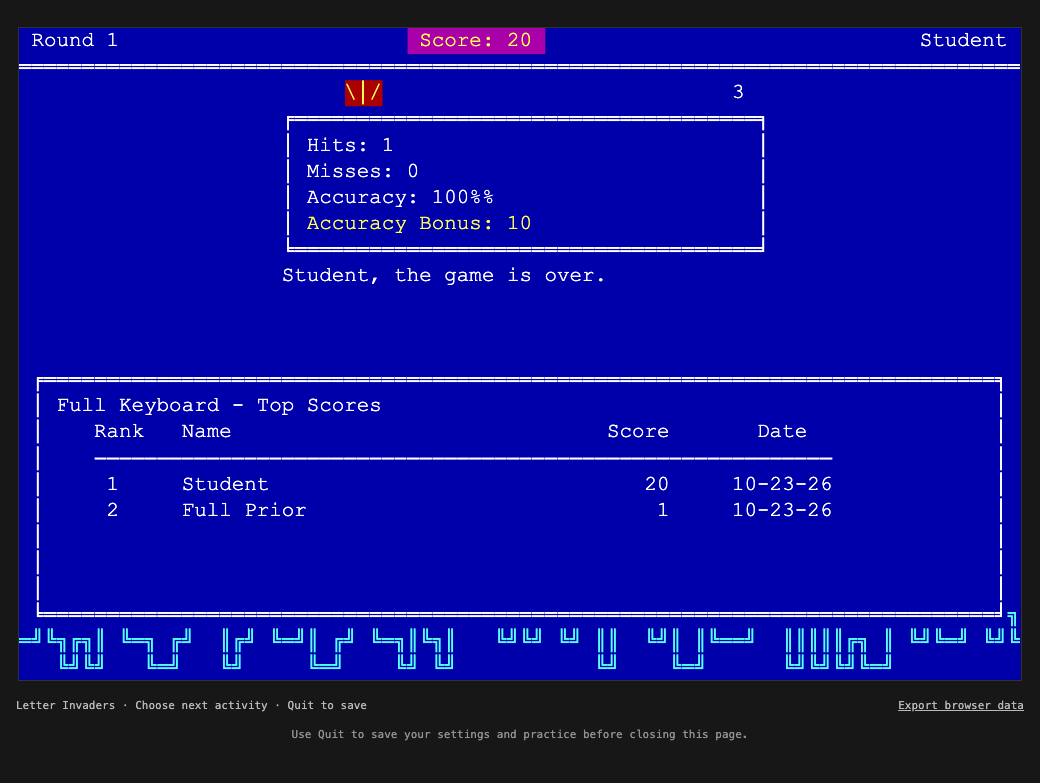
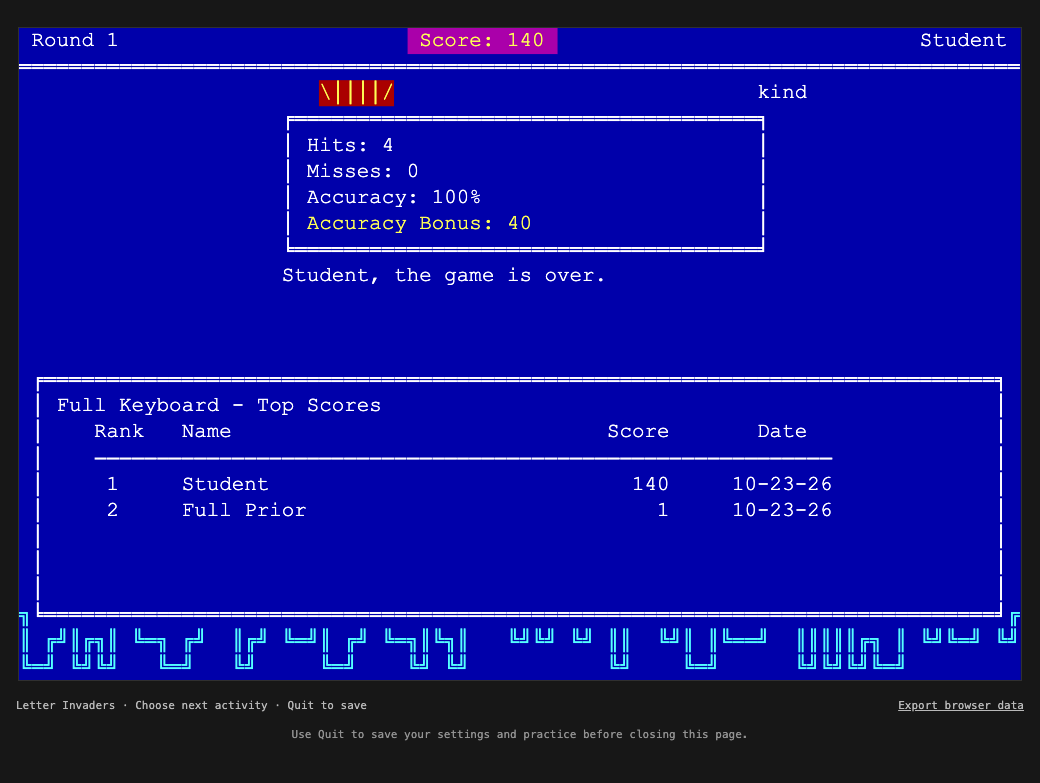
Restore Word Ship melody and fix escaped percent in game summaries

diff --git a/dist/invaders-data.js b/dist/invaders-data.js
@@ -1,2 +1,2 @@
 // Generated by scripts/extract-invaders-data.py; retained static REA evidence.
-export default {"levelTitle":"Level","scoresTitle":"Score board","title":"Letter Invaders (R)","gameMenu":"Game Menu","roundTitle":"Round","roundFooter":"","roundNumber":"%d","score":" Score: %ld ","modePrompt":"Choose a level of play","choiceInstruction":"..press Enter to select highlighted item.","endPrompt":"Choose next activity","nameDots":"..","nameEnter":"..then press Enter.","playersTitle":"Players","playersPrompt":"Choose the number of players","secondNamePrompt":"Player #2: Please type your name","ready":"..Press Enter to begin Round %d.","player":"Player %d, %s","playerScore":", your score: %ld","summaryPlayer":"Player %d, %s","hits":"Hits: %d","misses":"Misses: %d","accuracy":"Accuracy: %d%%","bonus":"Accuracy Bonus: %d","gameOverPlayer":"Player %d, ","gameOver":"%s, the game is over.","playerOneFinal":"Player 1, %s: %ld","playerTwoFinal":"Player 2, %s: %ld","scoreTitle":"%s - Top Scores","scoreHeading":"Rank   Name                              Score       Date","keysHeading":"      Keys","scoreRow":"%d     %-26s%13ld%13s","keysRow":"%7d","ignoredKeys":"\\|`","replacementExcluded":"',-_","modeChoices":["Practice Keys","Full Keyboard"],"playerChoices":["One","Two"],"endChoices":["Play another game","Practice Lesson","Return to Main Menu"],"introParagraphs":["Nihilistic letters are attacking the English Language!  They aim to destroy literacy with random words.  Can you stop the crazed letters and save your language?","Your strategy is to place your fingers on the home keys ('ASDF' and 'JKL;') and type the descending words before they can cause cultural confusion."],"roundParagraphs":["You score points for each word correctly typed.  The first letter of a word is worth 10 points, the second letter adds 20 more, the third letter 30 more, etc.  Each miss deducts 10 points.","Watch out in round 2!  The invaders have a new tactic for syntactical disarray - Boomlets.  These babies come down fast, and they are worth 50 points when you stop them.","Your incredible defense of good grammar has forced the invaders to call in Word Ships for resupply.  Type a Word Ship while it races across the screen and score double the word value.","The invasion continues!"],"gameOrder":"aAsSdDfFjJkKlL;eEiItT.nNrRoO,hHcCpPuUmMyYgGwWvVbBxXqQzZ':\"?!()-4738291056=$+%&*#@<>/[]{}^_","scoreTables":{"count":2,"entries":5,"entryBytes":35,"nameBytes":26,"scoreOffset":26,"keysOffset":30,"dateOffset":31},"boomletSound":{"pitches":[197553,186466,176000,166122,156798,147998,139691,132851,124451,117466,110873,104650],"durationMs":83,"pitHundredths":119318000}};
+export default {"levelTitle":"Level","scoresTitle":"Score board","title":"Letter Invaders (R)","gameMenu":"Game Menu","roundTitle":"Round","roundFooter":"","roundNumber":"%d","score":" Score: %ld ","modePrompt":"Choose a level of play","choiceInstruction":"..press Enter to select highlighted item.","endPrompt":"Choose next activity","nameDots":"..","nameEnter":"..then press Enter.","playersTitle":"Players","playersPrompt":"Choose the number of players","secondNamePrompt":"Player #2: Please type your name","ready":"..Press Enter to begin Round %d.","player":"Player %d, %s","playerScore":", your score: %ld","summaryPlayer":"Player %d, %s","hits":"Hits: %d","misses":"Misses: %d","accuracy":"Accuracy: %d%%","bonus":"Accuracy Bonus: %d","gameOverPlayer":"Player %d, ","gameOver":"%s, the game is over.","playerOneFinal":"Player 1, %s: %ld","playerTwoFinal":"Player 2, %s: %ld","scoreTitle":"%s - Top Scores","scoreHeading":"Rank   Name                              Score       Date","keysHeading":"      Keys","scoreRow":"%d     %-26s%13ld%13s","keysRow":"%7d","ignoredKeys":"\\|`","replacementExcluded":"',-_","modeChoices":["Practice Keys","Full Keyboard"],"playerChoices":["One","Two"],"endChoices":["Play another game","Practice Lesson","Return to Main Menu"],"introParagraphs":["Nihilistic letters are attacking the English Language!  They aim to destroy literacy with random words.  Can you stop the crazed letters and save your language?","Your strategy is to place your fingers on the home keys ('ASDF' and 'JKL;') and type the descending words before they can cause cultural confusion."],"roundParagraphs":["You score points for each word correctly typed.  The first letter of a word is worth 10 points, the second letter adds 20 more, the third letter 30 more, etc.  Each miss deducts 10 points.","Watch out in round 2!  The invaders have a new tactic for syntactical disarray - Boomlets.  These babies come down fast, and they are worth 50 points when you stop them.","Your incredible defense of good grammar has forced the invaders to call in Word Ships for resupply.  Type a Word Ship while it races across the screen and score double the word value.","The invasion continues!"],"gameOrder":"aAsSdDfFjJkKlL;eEiItT.nNrRoO,hHcCpPuUmMyYgGwWvVbBxXqQzZ':\"?!()-4738291056=$+%&*#@<>/[]{}^_","scoreTables":{"count":2,"entries":5,"entryBytes":35,"nameBytes":26,"scoreOffset":26,"keysOffset":30,"dateOffset":31},"boomletSound":{"pitches":[197553,186466,176000,166122,156798,147998,139691,132851,124451,117466,110873,104650],"durationMs":83,"pitHundredths":119318000},"wordShipSound":{"notes":[[24694,50,16],[24694,50,16],[24694,101,32],[24694,50,16],[24694,50,16],[24694,101,32],[24694,50,16],[24694,50,16],[32963,101,32],[36999,101,32],[41530,101,32],[24694,50,16],[24694,50,16],[24694,101,32],[24694,50,16],[24694,50,16],[32963,101,32],[41530,50,16],[41530,50,16],[36999,101,32],[31113,101,32],[24694,101,32],[24694,50,16],[24694,50,16],[24694,101,32],[24694,50,16],[24694,50,16],[24694,101,32],[24694,50,16],[24694,50,16],[32963,101,32],[36999,101,32],[41530,101,32],[32963,50,16],[41530,50,16],[49388,266,0],[49388,66,0],[44000,50,16],[41530,50,16],[36999,50,16],[32963,101,32],[41530,101,32],[32963,101,32],[98777,50,16],[98777,50,16],[98777,101,32],[98777,50,16],[98777,50,16],[98777,101,32],[98777,50,16],[98777,50,16],[132851,101,32],[147998,101,32],[166122,101,32],[98777,50,16],[98777,50,16],[98777,101,32],[98777,50,16],[98777,50,16],[132851,101,32],[166122,50,16],[166122,50,16],[147998,101,32],[124451,101,32],[98777,50,16],[98777,50,16],[98777,101,32],[98777,50,16],[98777,50,16],[98777,101,32],[98777,50,16],[98777,50,16],[132851,101,32],[147998,101,32],[166122,101,32],[132851,66,0],[166122,66,0],[197553,266,0],[197553,66,0],[176000,66,0],[166122,66,0],[147998,66,0],[132851,101,32],[166122,101,32],[132851,101,32]]}};

diff --git a/dist/app.js b/dist/app.js
@@ -1,6 +1,6 @@
 import {InvadersGame,invadersTick} from "./invaders.js";
 import GAME from "./invaders-data.js";
-import {BoomletAudio} from "./game-audio.js";
+import {GameAudio} from "./game-audio.js";
 import {drawGameSetup,drawSecondName,drawRoundReady,drawGame,drawGameOver,drawScores} from "./invaders-screen.js";
 import {DiskTest} from "./disk-test.js";
 import DISK from "./disk-data.js";
@@ -54,7 +54,7 @@ function audioContext(){
   if(audio.state==="suspended")audio.resume().catch(()=>{});
   return audio;
 }
-const boomletAudio=new BoomletAudio(audioContext);
+const gameAudio=new GameAudio(audioContext);
 function beep(){
   if(!student.working.sound)return;
   try{
@@ -352,7 +352,7 @@ function goMenu(menu=0,resetSelection=true){
 
 
 
-function stopGameClock(){if(gameFrame!==null){cancelAnimationFrame(gameFrame);gameFrame=null;}boomletAudio.stop();}
+function stopGameClock(){if(gameFrame!==null){cancelAnimationFrame(gameFrame);gameFrame=null;}gameAudio.stop();}
 function openGameSetup(){
   stopGameClock();clearTimeout(idleTimer);gameSession=null;
   state.mode="game-setup";state.selected=0;state.gameMode="practice";state.gameNameError="";
@@ -388,7 +388,7 @@ function acceptGameName(){
 }
 function startInvaders(players){
   stopGameClock();
-  if(student.working.sound)boomletAudio.unlock();
+  if(student.working.sound)gameAudio.unlock();
   gameSession=new InvadersGame(student.beginAdaptivePractice(),{mode:state.gameMode,players});
   syncGameMode();render();announce("Round 1. Press Enter to begin.");
 }
@@ -401,11 +401,12 @@ function syncGameMode(){
 }
 function gameSounds(){
   const events=gameSession.drainEvents();
-  if(!student.working.sound||gameSession.phase!=="playing"){boomletAudio.stop();return;}
-  const active=gameSession.targets.some(target=>target.type===2);
-  if(!active)boomletAudio.stop();
-  if(active&&events.some(event=>event.type==="boomlet"))boomletAudio.start();
-  if(events.some(event=>event.type!=="boomlet")&&!boomletAudio.playing)beep();
+  if(!student.working.sound||gameSession.phase!=="playing"){gameAudio.stop();return;}
+  const active=gameSession.targets.some(target=>target.type>1);
+  if(!active)gameAudio.stop();
+  const special=events.find(event=>event.type==="boomlet"||event.type==="ship");
+  if(active&&special)gameAudio.start(special.type);
+  if(events.some(event=>event.type!=="boomlet"&&event.type!=="ship")&&!gameAudio.playing)beep();
 }
 function armGameClock(){
   if(gameFrame!==null||state.mode!=="game-playing")return;
@@ -420,7 +421,7 @@ function armGameClock(){
   gameFrame=requestAnimationFrame(frame);
 }
 function invadersKey(key){
-  if(student.working.sound)boomletAudio.unlock();
+  if(student.working.sound)gameAudio.unlock();
   const previous=gameSession.phase;
   const result=gameSession.input(key,invadersTick(performance.now()));
   gameSounds();syncGameMode();

diff --git a/dist/game-audio.js b/dist/game-audio.js
@@ -11,21 +11,33 @@ export function boomletNotes(){
  }
  return notes;
 }
-export class BoomletAudio{
+// Native17e47 case1 calls the stored phrases; retain their quantized rests as silence.
+export function wordShipNotes(){
+ const notes=[],ticks=ms=>Math.floor((ms*182+5000)/10000)*BIOS_TICK_MS/1000;
+ for(const [pitch,durationMs,silenceMs] of G.wordShipSound.notes){
+  const divisor=Math.trunc(G.boomletSound.pitHundredths/pitch)&0xffff;
+  notes.push({frequency:G.boomletSound.pitHundredths/100/(divisor||65536),duration:ticks(durationMs)});
+  const rest=ticks(silenceMs);if(rest)notes.push({frequency:0,duration:rest});
+ }
+ return notes;
+}
+export class GameAudio{
  constructor(contextFactory){this.contextFactory=contextFactory;this.voice=null;}
  // Called from the user's start/key gesture, before asynchronous spawns can need sound.
  unlock(){try{this.contextFactory();}catch{/* Optional browser audio. */}}
  get playing(){return this.voice!==null;}
- start(){
+ start(kind="boomlet"){
   this.stop();
   try{
    const context=this.contextFactory();if(!context)return;
    const oscillator=context.createOscillator(),gain=context.createGain();
    oscillator.type="square";oscillator.connect(gain);gain.connect(context.destination);
-   const start=context.currentTime,notes=boomletNotes();let end=start;
-   for(const note of notes){oscillator.frequency.setValueAtTime(note.frequency,end);end+=note.duration;}
-   gain.gain.setValueAtTime(.06,start);
-   gain.gain.setValueAtTime(.06,Math.max(start,end-.004));
+   const start=context.currentTime,notes=kind==="ship"?wordShipNotes():boomletNotes();let end=start;
+   for(const note of notes){
+    if(note.frequency)oscillator.frequency.setValueAtTime(note.frequency,end);
+    gain.gain.setValueAtTime(note.frequency > 0 ? .06 : 0,end);end+=note.duration;
+   }
+   gain.gain.setValueAtTime(notes.at(-1)?.frequency > 0 ? .06 : 0,Math.max(start,end-.004));
    gain.gain.linearRampToValueAtTime(0,end);
    const voice={oscillator,gain,context};this.voice=voice;
    oscillator.onended=()=>{oscillator.disconnect();gain.disconnect();if(this.voice===voice)this.voice=null;};
@@ -41,3 +53,6 @@ export class BoomletAudio{
   }catch{/* It may already have ended. */}
  }
 }
+
+// Preserve the earlier module name for already-cached app modules during deployment.
+export {GameAudio as BoomletAudio};

diff --git a/dist/invaders-screen.js b/dist/invaders-screen.js
@@ -18,7 +18,7 @@ function paragraph(grid,text,top,left,bottom,right,attr=0x1f){
  }
  return row;
 }
-const format=(text,...values)=>{for(const value of values)text=text.replace(/%(?:ld|[dsc])/,String(value));return text;};
+const format=(text,...values)=>{let index=0;return text.replace(/%%|%(?:ld|[dsc])/g,token=>token==="%%"?"%":String(values[index++]));};
 const name=(game,player=game.player??0)=>game.players?.[player]??"Student";
 const score=(game,player=game.player??0)=>game.scores?.[player]??game.score??0;
 function localDate(value){

diff --git a/scripts/extract-invaders-data.py b/scripts/extract-invaders-data.py
@@ -13,11 +13,25 @@ data.update(modeChoices=choices(0x7fc4,2),playerChoices=choices(0x7fe4,2),endCho
  introParagraphs=[cstr(o) for o in [0x809a,0x813b]],roundParagraphs=[cstr(o) for o in [0x81ef,0x82ac,0x8356,0x840e]],
  gameOrder=ds[0x7a94:0x7a94+90].decode('ascii'),scoreTables={'count':2,'entries':5,'entryBytes':35,'nameBytes':26,'scoreOffset':26,'keysOffset':30,'dateOffset':31})
 data['boomletSound']={'pitches':list(struct.unpack_from('<12I',ds,0x7dd0)),'durationMs':83,'pitHundredths':0x71ca5f0}
+# Expand the native17e47 case1 call graph and 8-byte pitch/duration/rest records.
+def tones(offset,count=1):return [struct.unpack_from('<IHH',ds,offset+8*i) for i in range(count)]
+def phrase_a():return tones(0x7cd0)*2+tones(0x7cd8)
+def phrase_b():return tones(0x7cd0)*2+tones(0x7ce0)
+def phrase_c():return phrase_a()*2+phrase_b()+tones(0x7ce8,2)
+def phrase_d():return tones(0x7d40)*2+tones(0x7d48)
+def phrase_e():return tones(0x7d40)*2+tones(0x7d50)
+def phrase_f():return phrase_d()*2+phrase_e()+tones(0x7d58,2)
+ship=(phrase_c()+phrase_a()+phrase_b()+tones(0x7cf8)*2+tones(0x7d00,2)+tones(0x7cd8)
+      +phrase_c()+tones(0x7d10)+tones(0x7cf8)+tones(0x7d18,3)+tones(0x7cf8)
+      +tones(0x7d30)+tones(0x7ce0)+tones(0x7d38)+tones(0x7ce0)
+      +phrase_f()+phrase_d()+phrase_e()+tones(0x7d68)*2+tones(0x7d70,2)+phrase_f()+tones(0x7d80,10))
+assert len(ship)==85
+data['wordShipSound']={'notes':ship}
 assert data['modeChoices']==['Practice Keys','Full Keyboard']
 assert len(data['gameOrder'])==90
 out=ROOT/'dist/invaders-data.js'
 out.write_text('// Generated by scripts/extract-invaders-data.py; retained static REA evidence.\nexport default '+json.dumps(data,ensure_ascii=False,separators=(',',':'))+';\n')
-functions=['0x12f68','0x12f7f','0x19538','0x1980e','0x1947e','0x19296','0x1922d','0x19bec','0x1787b','0x1768e','0x1ab36','0x1a541','0x17e47','0x17a75','0x17ce8','0x17d49','0x1a22a']
-receipt={'scope':'Static Letter Invaders UI and Boomlet sound resources; no native runtime capture or named-history score import','binary_sha256':expected,'strings':{k:hex(v) for k,v in offsets.items()},'functions':[{'address':a,'evidence':(ROOT/('analysis/recovered/'+a+'.asm')).read_text().splitlines()[0].lstrip('; ')} for a in functions],'boomlet_sound':{'pitch_table':'DS7dd0[12] uint32','pitch_unit':'hundredths of Hz','octave_divisors':[1,2,4,8,16,32],'note_ms':83,'timer_rounding':'floor((ms*182+5000)/10000) BIOS ticks; zero-length silence entries consume no tick'},'score_table':{'address':'DS9843','modeCount':2,'entriesPerMode':5,'entryBytes':35,'record_fields':{'name':0,'score':26,'keys':30,'date':31},'note':'Global tail data beyond active profile; no names or score values imported.'},'output_sha256':hashlib.sha256(out.read_bytes()).hexdigest(),'extractor_sha256':hashlib.sha256(Path(__file__).read_bytes()).hexdigest()}
+functions=['0x12f68','0x12f7f','0x19538','0x1980e','0x1947e','0x19296','0x1922d','0x19bec','0x1787b','0x1768e','0x1ab36','0x1a541','0x17e47','0x17a75','0x17ce8','0x17d49','0x1a22a','0x180e1','0x18104','0x1811c','0x18134','0x18152','0x18175','0x1818d','0x181a5']
+receipt={'scope':'Static Letter Invaders UI and special-target sound resources; no native runtime capture or named-history score import','binary_sha256':expected,'strings':{k:hex(v) for k,v in offsets.items()},'functions':[{'address':a,'evidence':(ROOT/('analysis/recovered/'+a+'.asm')).read_text().splitlines()[0].lstrip('; ')} for a in functions],'boomlet_sound':{'pitch_table':'DS7dd0[12] uint32','pitch_unit':'hundredths of Hz','octave_divisors':[1,2,4,8,16,32],'note_ms':83,'timer_rounding':'floor((ms*182+5000)/10000) BIOS ticks; zero-length silence entries consume no tick'},'word_ship_sound':{'effect':'0x17e47 case1','tables':'DS7cd0..7dcf; 8-byte uint32 pitch,uint16 duration,uint16 silence','expanded_notes':85,'phrases':['0x180e1','0x18104','0x1811c','0x18134','0x18152','0x18175','0x1818d','0x181a5']},'score_table':{'address':'DS9843','modeCount':2,'entriesPerMode':5,'entryBytes':35,'record_fields':{'name':0,'score':26,'keys':30,'date':31},'note':'Global tail data beyond active profile; no names or score values imported.'},'output_sha256':hashlib.sha256(out.read_bytes()).hexdigest(),'extractor_sha256':hashlib.sha256(Path(__file__).read_bytes()).hexdigest()}
 path=ROOT/'analysis/invaders/resources.json';path.parent.mkdir(parents=True,exist_ok=True);path.write_text(json.dumps(receipt,indent=2)+'\n')
 print('Extracted Letter Invaders resources and static identities.')

diff --git a/PROCESS.md b/PROCESS.md
@@ -291,3 +291,12 @@ Stage 5 ordering and instructor-mode scope are provisional. Avoid making every h
 - Three original reference hashes and all1,588 immutable evidence files pass. Resource/extractor hashes, JavaScript/Python syntax and local documentation links pass. Test-owned ports8765–8774 stopped. User's local server/profile untouched. Receipt:analysis/game-audio-and-public-scope.json.
 - Prepared42-file deployment ZIP, excluding prototype while including the audio module. Next action: commit/push to trigger automatic GitHub Pages deployment, then verify live audio resources, UI and prototype404. Earlier receipts remain historical; native DOS sound comparison and Safari remain open.
 - Live delivery confirmed for runtime commit0bbe89c: CI run40018948600 and Pages run40018948565 succeeded. Isolated Chrome checked https://tt.xcstudio.dev with strict autoplay and normal TLS: public prototype link absent, /prototype/404, actual round-two Boomlet schedules72 descending notes, stops on collision, renders RMS0.0490, and Sound Off creates no audio context. A temporary hostname mapping was used only in the test browser; no TLS bypass or user-profile changes. Receipt:analysis/live-game-audio-fix.json.
+
+## 2026-10-24 — Word Ship melody and summary percent fixes
+- Owner reported missing audio for horizontal words and doubled percent signs in game accuracy summaries. Identified horizontal type3 targets as Word Ships: 0x1a541 calls 0x17e47 case1, which uses eight helper phrases0x180e1–0x181a5 over DS7cd0–7dcf's8-byte tone/duration/rest records.
+- Extracted the complete85-tone phrase sequence and35 nonzero quantized rests (163 BIOS ticks). Generalized the existing special-target audio voice for Boomlet and Word Ship effects, preserving user-gesture activation, Sound Off and cancellation when the special target vanishes or play ends. Kept the previous BoomletAudio export alias so cached older app modules remain compatible. Original PIT/timer/queue and physical speaker runtime comparisons remain a fidelity limit.
+- Confirmed the original accuracy string is Accuracy: %d%%. C printf interprets %% as one literal percent; the old JS helper only replaced %d and left %% intact. Replaced that helper with a single-pass formatter for placeholders and escaped-percent tokens, so substituted names are not parsed again. No accuracy/scoring calculation changed.
+- Checks passed:146 unit tests including an added native melody vector/rest/timing check and expanded existing summary/name/voice-replacement checks. Corrected an initial test-duration assumption to the actual163 native ticks rather than an arbitrary ten-second lower bound; no production timing adjustment was needed.
+- Strict-autoplay Chrome audio checks passed with real gameplay through round1/2/3: Boomlet72-tone warning and Word Ship85-tone melody, context activation, collision cancellation, Sound Off/no context, and actual waveform rendering (Word Ship RMS0.0446; Boomlet RMS0.0490). Both round summary and game-over percentage paths covered; no page errors.
+- Existing full game and extracted-package Chrome workflows pass, covering targeting, scores, two-player turns, persistence, root/project paths and continued prototype404. Reviewed the current game-over capture showing one percent sign. Three originals and all1,588 immutable evidence files remain unchanged; resource hashes and syntax verified.
+- Updated docs/letter-invaders.md with sound/printf evidence and retained sources. Prepared the42-file static artifact. Receipt:analysis/word-ship-and-percent-fix.json. Next action: publish through the existing automatic Pages pipeline and verify live Word Ship sound and single-percent summaries.

diff --git a/docs/letter-invaders.md b/docs/letter-invaders.md
@@ -77,3 +77,11 @@ The initial remake reduced this event to the same short generic beep as other ev
 Two unit checks cover pitch/timing vectors and voice replacement/cleanup. A dedicated installed-Chrome test plays a real first round, reaches a second-round Boomlet, checks the 72 scheduled pitches and running context, destroys it and checks cancellation. Real OfflineAudioContext rendering produces nonzero waveform RMS 0.0490. The same gameplay with Sound Off opens no audio context. This verifies generated audio data and browser scheduling, not physical speaker output or a recorded original-machine comparison.
 
 See [Chrome's Web Audio guidance](https://developer.chrome.com/blog/web-audio-autoplay) for the browser gesture requirement. The timing/pitch findings above come from retained assembly, not that browser document.
+
+## Word Ship music and summary percent correction (2026-10-24)
+
+Horizontal type-3 targets are Word Ships. Native 0x1a541 calls 0x17e47 case 1, which expands eight phrase helpers (0x180e1–0x181a5) over 8-byte pitch/duration/rest records at DS7cd0–7dcf. The recovered phrase order contains 85 tones and 35 nonzero quantized rests, totalling 163 BIOS ticks before target-based cancellation. The browser now plays that melody through the same special-target voice as Boomlets, suppresses generic short beeps while it is playing, and stops it when the ship disappears, play ends or Sound is off. Exact timer-interrupt queue occupancy and physical PC-speaker reproduction still need native runtime comparison.
+
+The native summary format is Accuracy: %d%%. C printf turns %% into one literal percent sign; the JavaScript formatter formerly substituted the number but left both signs. It now processes placeholders and escaped percent tokens in one pass, leaving any percent characters inside substituted names alone. Accuracy calculations are unchanged.
+
+Unit checks cover native melody order/timing/rest vectors, voice replacement and literal percentages in round/game-over summaries. Strict-autoplay Chrome verification plays through to round-three Word Ships with Sound On/Off, checks all85 tone changes, collision cancellation, nonzero rendered waveform RMS0.0446 and a single summary percent sign. Existing Boomlet checks continue to pass.

diff --git a/README.md b/README.md
@@ -40,7 +40,7 @@ Use Export browser data for a JSON backup; backup import is not implemented yet.
 - Original Disk tests from local .tst/.txt files, including six-line paging, byte decoding and separate test history.
 - Six-line Practice/All-keys tests with the recovered full-key text generator and result dialog.
 - Progress, Speed and Accuracy reports with current/history counters and original graph layout.
-- Letter Invaders: Practice Keys/Full Keyboard, one/two players, original targeting/scoring, descending Boomlet warning and separate global top-five tables.
+- Letter Invaders: Practice Keys/Full Keyboard, one/two players, original targeting/scoring, Boomlet warnings, Word Ship melodies and separate global top-five tables.
 - Working settings, practice records and game scores remain in memory. Use **Quit → Yes, save session to history** to persist them.
 - Quit → No discards changes; Return to Main Menu keeps the session open.
 - Export browser data downloads both saved versions and the current working session.

diff --git a/docs/remake-design.md b/docs/remake-design.md
@@ -82,3 +82,6 @@ The owner selected GitHub Pages for hosting while retaining tt.xcstudio.dev at C
 
 ## Game audio and published scope correction (2026-10-24)
 The owner reported the missing fast-letter warning. Boomlet sound now uses the recovered pitch sequence and initializes Web Audio from the game-start gesture; mute and special-target removal stop it. The earlier prototype stays in dist/prototype/ for repository/local reference but has no main-screen link and is excluded from static publication. See [game evidence](letter-invaders.md) and [deployment](deployment.md).
+
+## Word Ship audio and literal percent handling (2026-10-24)
+Word Ships now use their recovered85-tone melody with quantized rests, sharing special-target mute/lifecycle handling with Boomlets. Summary rendering decodes native printf %% tokens in one pass without reinterpreting substituted text. The scoring engine is unchanged. See [game evidence](letter-invaders.md).
